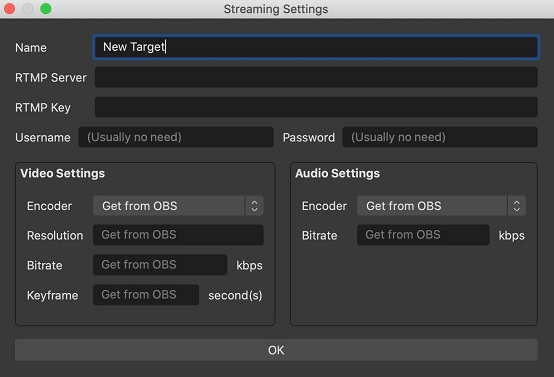
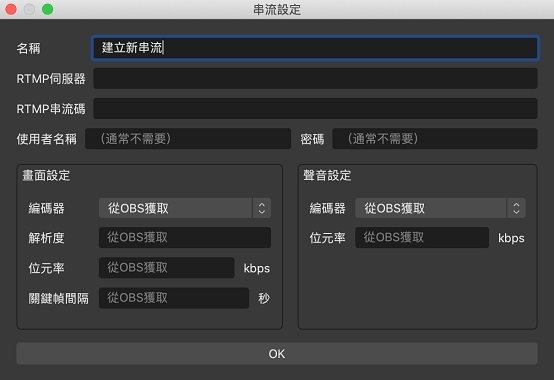
update

diff --git a/source/_posts/2020-09-23-obs-multi-rtmp-outputs-plugin.md b/source/_posts/2020-09-23-obs-multi-rtmp-outputs-plugin.md
@@ -40,13 +40,13 @@ OBS 預設只能直播一個平台
 <div align="center"><img src="/2020-09-23-obs-multi-rtmp-outputs-plugin/windows-obs-multi-rtmp.jpg" width="700px"/></div>
 
   其實原本打開的時候，套件語系是英文的
-後來去檢查才發現這個 `.zip` 只有包含簡體中文
-但我系統是設繁體中文，所以沒有對應的語系就自動跳預設語系了 (英文)
+  後來去檢查才發現這個 `.zip` 只有包含簡體中文
+  但我系統是設繁體中文，所以沒有對應的語系就自動跳預設語系了 (英文)
 
   不過好加在有人有發繁體中文的 [Pull Requests](https://github.com/sorayuki/obs-multi-rtmp/pull/44)，作者也有 Merge
-只是沒有釋出在 0.2.5 版本的 `.zip` 裡
-所以要到 [zh-TW.ini](https://raw.githubusercontent.com/sorayuki/obs-multi-rtmp/master/locale/zh-TW.ini) (`右鍵` > `另存新檔` > 命名為 `zh-TW.ini`)
-再把這個檔案複製到 `C:\Program Files\obs-studio\data\obs-plugins\obs-multi-rtmp\locale` 底下就好囉
+  只是沒有釋出在 0.2.5 版本的 `.zip` 裡
+  所以要到 [zh-TW.ini](https://raw.githubusercontent.com/sorayuki/obs-multi-rtmp/master/locale/zh-TW.ini) (`右鍵` > `另存新檔` > 命名為 `zh-TW.ini`)
+  再把這個檔案複製到 `C:\Program Files\obs-studio\data\obs-plugins\obs-multi-rtmp\locale` 底下就好囉
 4. 點擊 `建立新串流目標` > 輸入`名稱`、`伺服器`、`串流碼`等設定 > `OK`
 <div align="center"><img src="/2020-09-23-obs-multi-rtmp-outputs-plugin/windows-obs-multi-rtmp-setting.jpg" width="500px"/></div>
 5. 點擊 `開始` 送直播訊號
@@ -61,10 +61,16 @@ OBS 預設只能直播一個平台
 <div align="center"><img src="/2020-09-23-obs-multi-rtmp-outputs-plugin/mac-open-pkg-unidentified-developer.jpg" width="500px"/></div>
 
 3. 打開 OBS，介面左上角會多一個區塊
-( mac 我不知道怎麼改語系 😂)
 <div align="center"><img src="/2020-09-23-obs-multi-rtmp-outputs-plugin/mac-obs-multi-rtmp.jpg" width="600px"/></div>
 
-4. 點擊 `Add new target` > 輸入 `Name`, `Server`, `Key` 等設定 > `OK`
+  這邊跟上面 Windows 一樣，套件語系是英文的
+  首先到 `Macintosh HD/Library/Application Support/obs-studio/plugins/obs-multi-rtmp/data/locale`
+  拷貝任意 `.ini` 到桌面上，並將檔名改為 `zh-TW.ini`
+  接著使用 `文字編輯` 打開
+  把這個 [網頁](https://raw.githubusercontent.com/sorayuki/obs-multi-rtmp/master/locale/zh-TW.ini) 上的內容全部複製到 `文字編輯` 裡並儲存
+  最後把這個 `zh-TW.ini` 拷貝到 `Macintosh HD/Library/Application Support/obs-studio/plugins/obs-multi-rtmp/data/locale` 底下就好囉
+
+4. 點擊 `建立新串流目標` > 輸入`名稱`、`伺服器`、`串流碼`等設定 > `OK`
 <div align="center"><img src="/2020-09-23-obs-multi-rtmp-outputs-plugin/mac-obs-multi-rtmp-setting.jpg" width="500px"/></div>
 5. 點擊 `Start` 送直播訊號
 
@@ -73,6 +79,12 @@ OBS 預設只能直播一個平台
 也可以個別設定解析度和編碼格式
 不過要注意電腦效能和網速能承受的量
 
+另外可以發現 Windows 版本是 `0.2.5`、Mac 是 `0.2.4`
+所以 Windows 有多一個 Audio mixer ID 的功能
+
+總之開源的力量真的很強大
+雖然我不會寫程式 🤣
+但我可以幫忙寫說明文件和宣傳～
 
 ## 參考資料
 - [Multiple RTMP outputs plugin | OBS Forums](https://obsproject.com/forum/resources/multiple-rtmp-outputs-plugin.964/)
